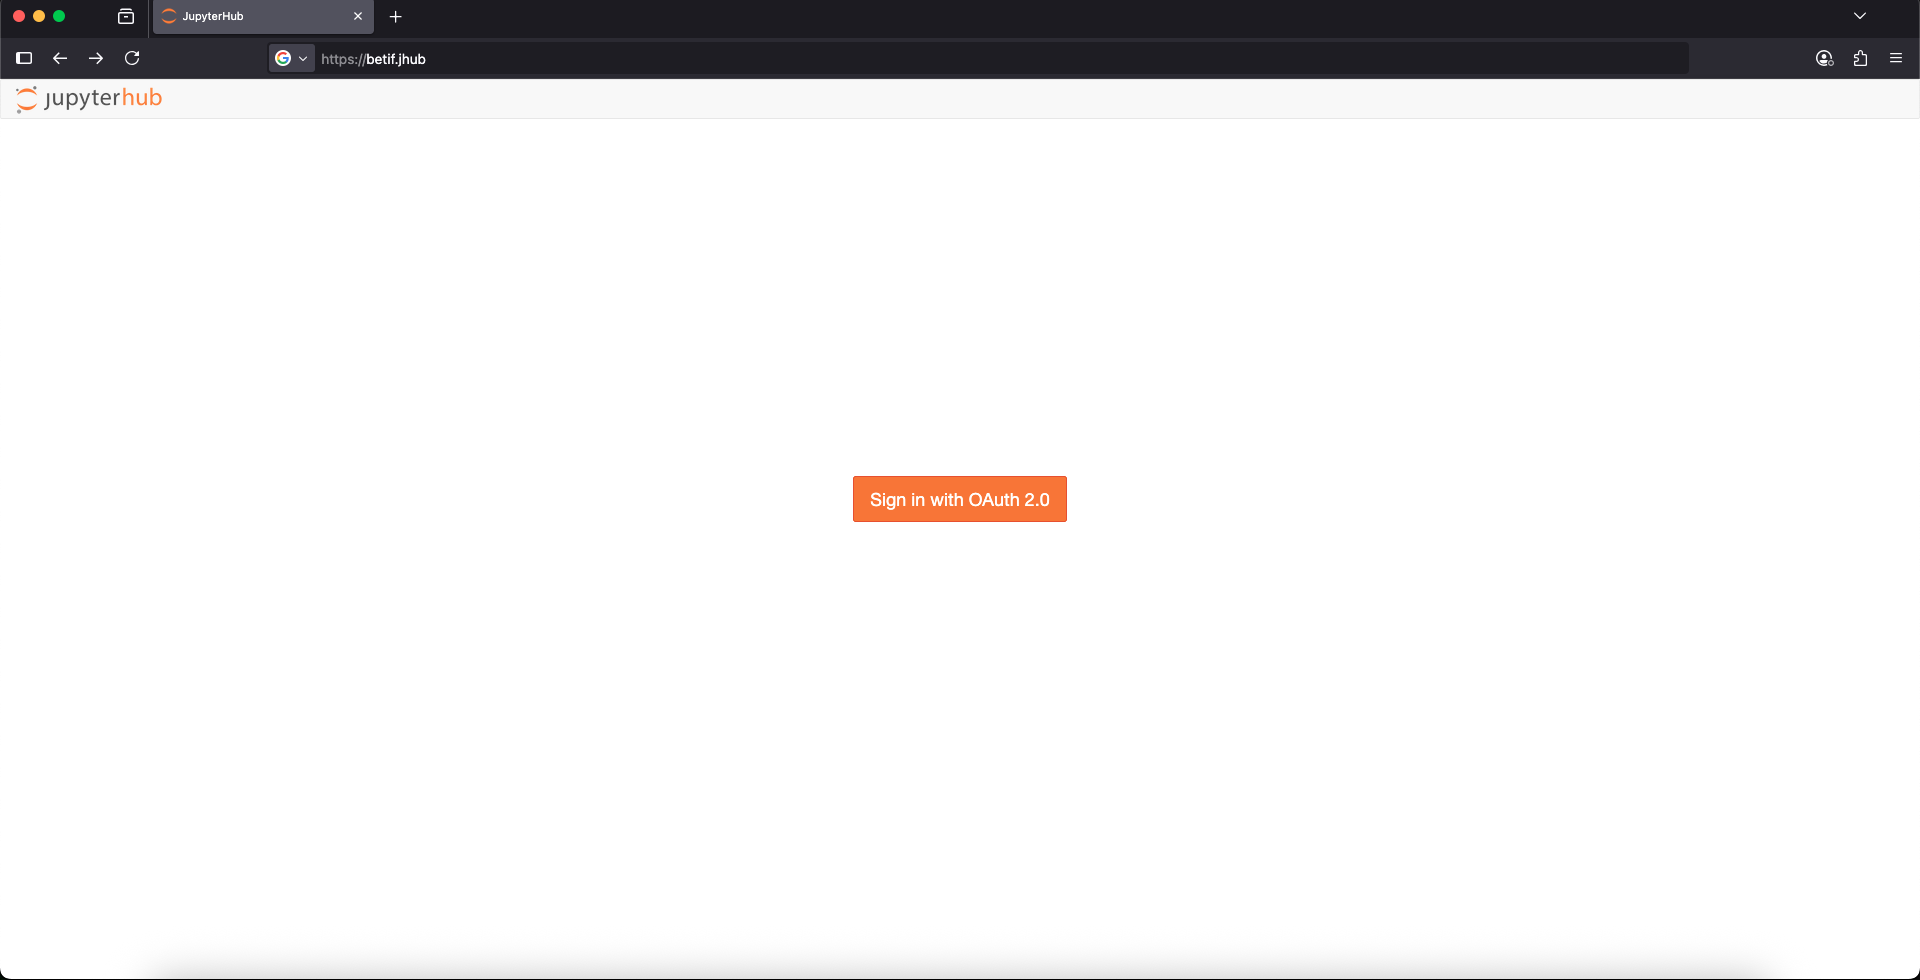
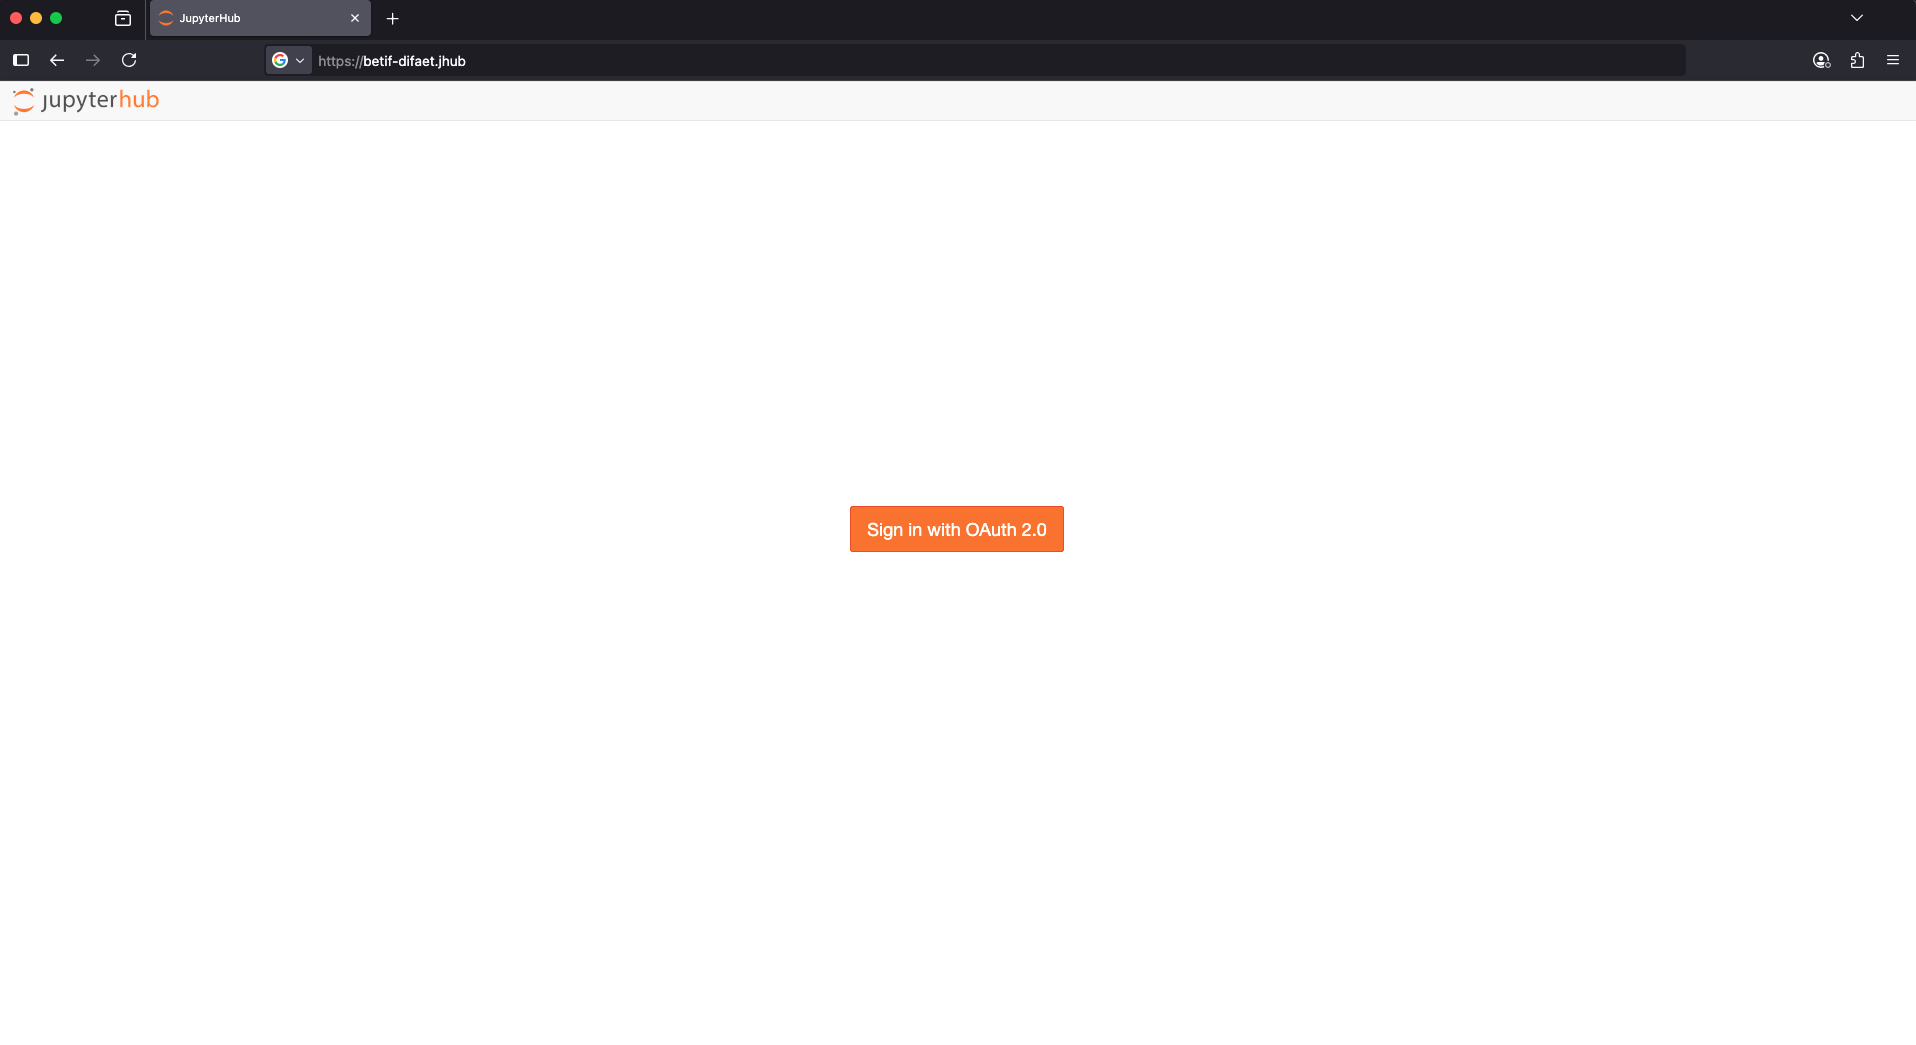
Update platform entrypoint

diff --git a/docs/source/user_guide.rst b/docs/source/user_guide.rst
@@ -5,13 +5,13 @@ User Guide
 How to access the prototype platform
 ------------------------------------
 
-In order to access the Jupyterhub instance now, an user would need to connect via ssh to the BETIF machine and bind a port through the ``-D``  flag:
+In order to access the Jupyterhub instance now, an user would need to connect via ssh to the BETIF-DIFAET machine and bind a port through the ``-D``  flag:
 
 .. code-block:: bash
 
-   $ ssh -ND 9999 <BETIF_machine>
+   $ ssh -ND 9999 <BETIF-DIFAET_machine>
 
-and use the BETIF server as SOCKS proxy (the instructions on how to do this depend on the browser used):
+and use the BETIF-DIFAET server as SOCKS proxy (the instructions on how to do this depend on the browser used):
 
 * **Firefox**: *Settings* -> *Network settings* -> select *Manual proxy configuration* and type ``localhost`` on **Host SOCKS** with ``9999`` port;
 * **Safari** and **Chrome** (on MacOS): Go to *SystemPreferences* -> *Network* -> *Wi-Fi* -> Click on *Details* next to the connected Wi-Fi -> *proxy* -> enable **SOCKS proxy** -> put the same information written above.
@@ -21,10 +21,10 @@ and use the BETIF server as SOCKS proxy (the instructions on how to do this depe
 .. figure:: jhub.png
    :alt: Jhub
    
-   `betif.jhub <https://betif.jhub>`_ landing page.
+   `https://betif-difaet.jhub <https://betif-difaet.jhub>`_ landing page.
 
 
-Once done, it is possible to access the dashboard connecting to `betif.jhub <https://betif.jhub>`_ entrypoint, as shown in :numref:`jhub`.
+Once done, it is possible to access the dashboard connecting to `https://betif-difaet.jhub <https://betif-difaet.jhub>`_ entrypoint, as shown in :numref:`jhub`.
 
 Clicking on *Sign in with OAuth2.0*, will redirect to the **IAM Einstein Telescope** login:
 
